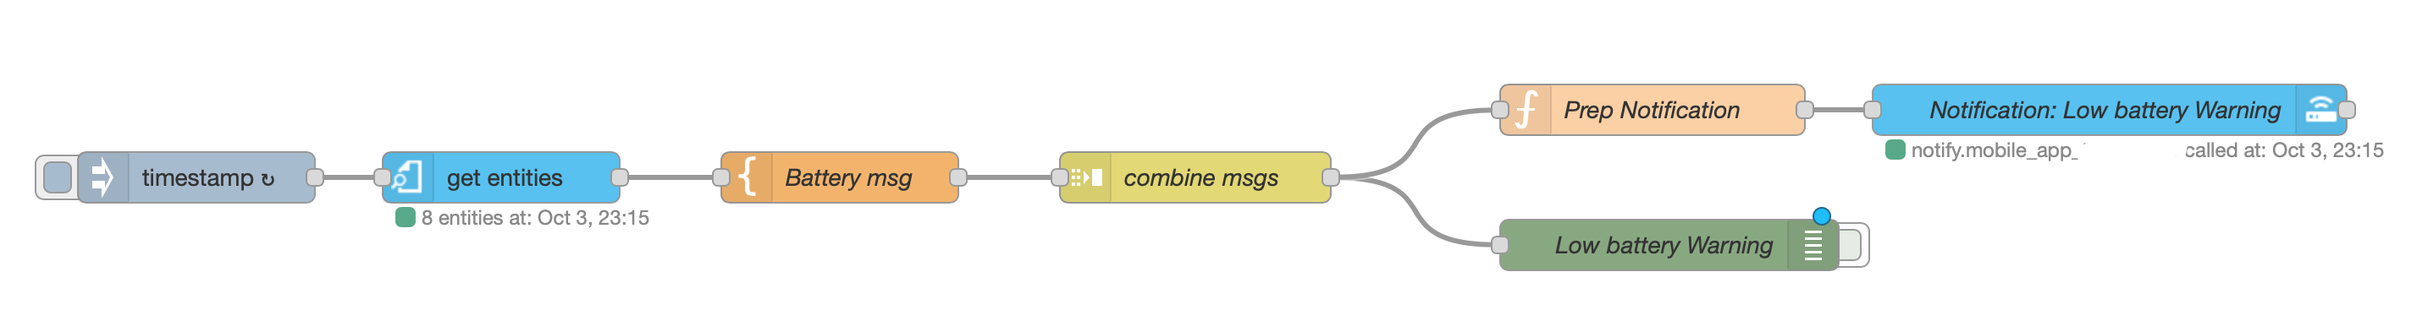
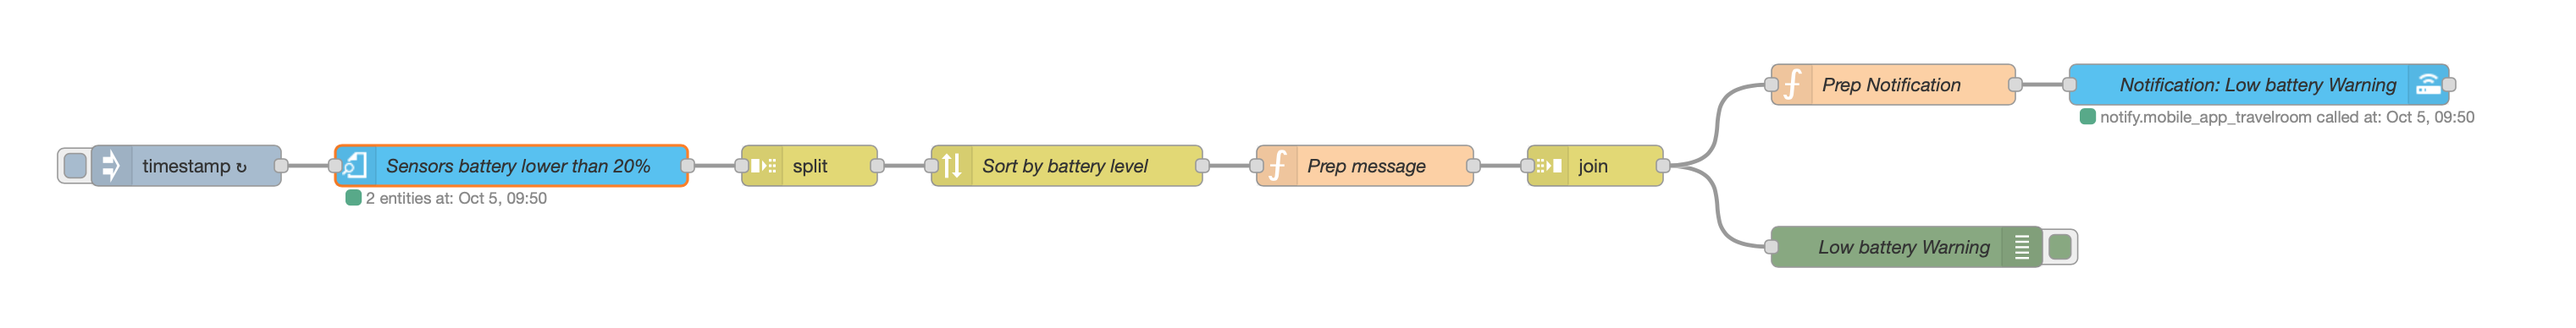
Add sorting message by ascending battery level

Changed region(s): [[0.0, 0.1737, 0.993, 0.7237], [0.5896, 0.6368, 0.8068, 0.8684]]

diff --git a/NodeRed/README.md b/NodeRed/README.md
@@ -15,7 +15,11 @@ Thanks
 
 ## Low Batteries Sensors Notification ##
 This automation checks every day the level of the sensor battery. If the percentage is below 20%, Node-Red will send a notification.
-These 6 nodes permit to avoid creating one automation for each sensor.
+These 8 nodes permit to avoid creating one automation for each sensor.
+- [x] Add sorting message by ascending battery level
+- [x] Reformat message "battery" for "sensor"
+
+![Low Batteries Sensors Notification iOS](lowBatteriesSensorsNotification_ios.png)
 
 The code: ![Low Batteries Sensors Notification Json](lowBatteriesSensorsNotification.json)
 
